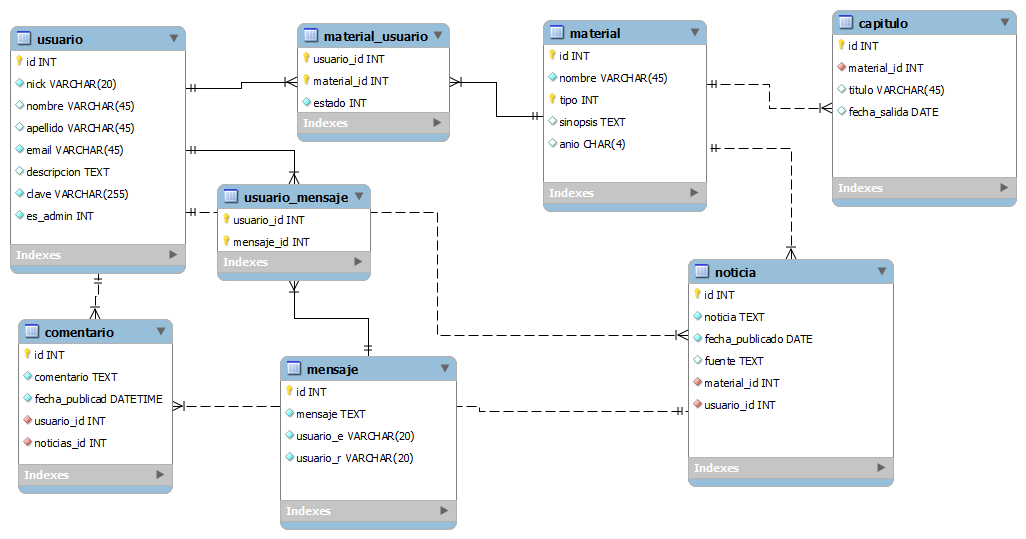
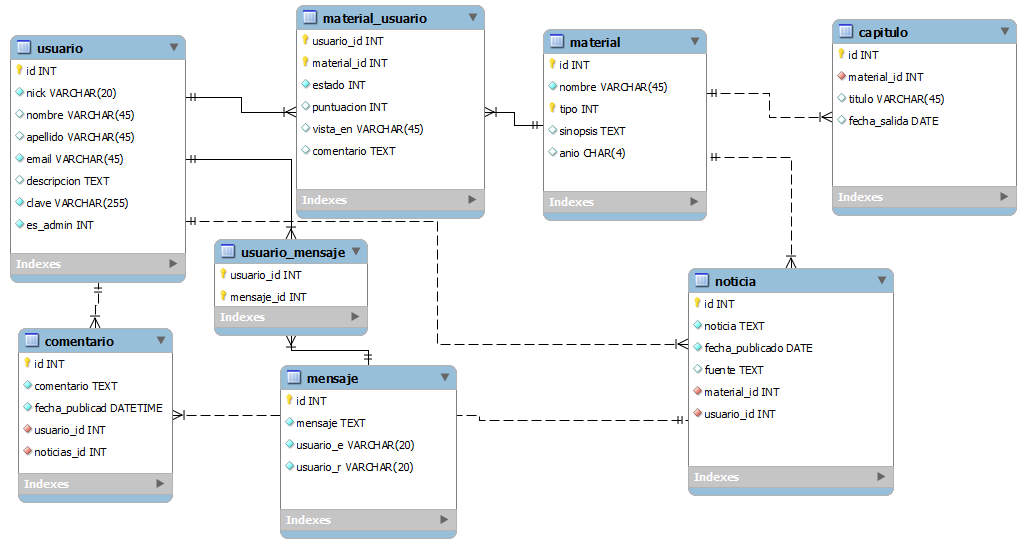
Cambios en la Base de Datos y en las plantillas de busqueda y listado

diff --git a/public/utilidades/js/MyJavaScript.js b/public/utilidades/js/MyJavaScript.js
@@ -74,7 +74,7 @@ function Ajax_Usuario(valor1, valor2, peticionn)
 {
     var request;
     request = $.ajax({
-        url: "ajax.php",
+        url: "/ajax.php",
         type: "GET",
         data: {val1: valor1, val2: valor2, peticion: peticionn}
     });
@@ -94,7 +94,7 @@ function Ajax_Material(valor1, valor2, valor3, valor4,  peticionn)
     valor4 == true ? valor4 = 1 : valor4 = 0;
     var request;
     request = $.ajax({
-        url: "ajax.php",
+        url: "/ajax.php",
         type: "GET",
         data: {val1: valor1, val2: valor2, val3: valor3, val4: valor4, peticion: peticionn}
     });

diff --git a/public/index.php b/public/index.php
@@ -178,16 +178,15 @@ $app->map('/busquedam', function() use ($app) {
                     break;
             }
             
-            $buscaCosa = ORM::for_table('material')->select('material.nombre')->
+            $buscaCosa = ORM::for_table('material')->
+                    select_many('material.nombre','material_usuario.puntuacion',
+                            'material_usuario.vista_en','material_usuario.comentario')->
                     join('material_usuario', array('material.id','=','material_id'))->
                     join('usuario', array('usuario_id','=','usuario.id'))->
                     where('material.tipo',$idTipo)->
                     where('material_usuario.estado',$idEstado)->
-                    where('usuario.id',16)->find_many(); // Siendo 16 el usuario con el que estoy currando de momento 
-            /*foreach($buscaCosa as $i)
-            {
-                echo $i->nombre;
-            }*/
+                    where('usuario.id',1)->find_many(); // Siendo 16 el usuario con el que estoy currando de momento 
+            
             $app->render('listado.html.twig', array(
                 'datos' => $buscaCosa,
                 'cosas' => $mensajeListado));
